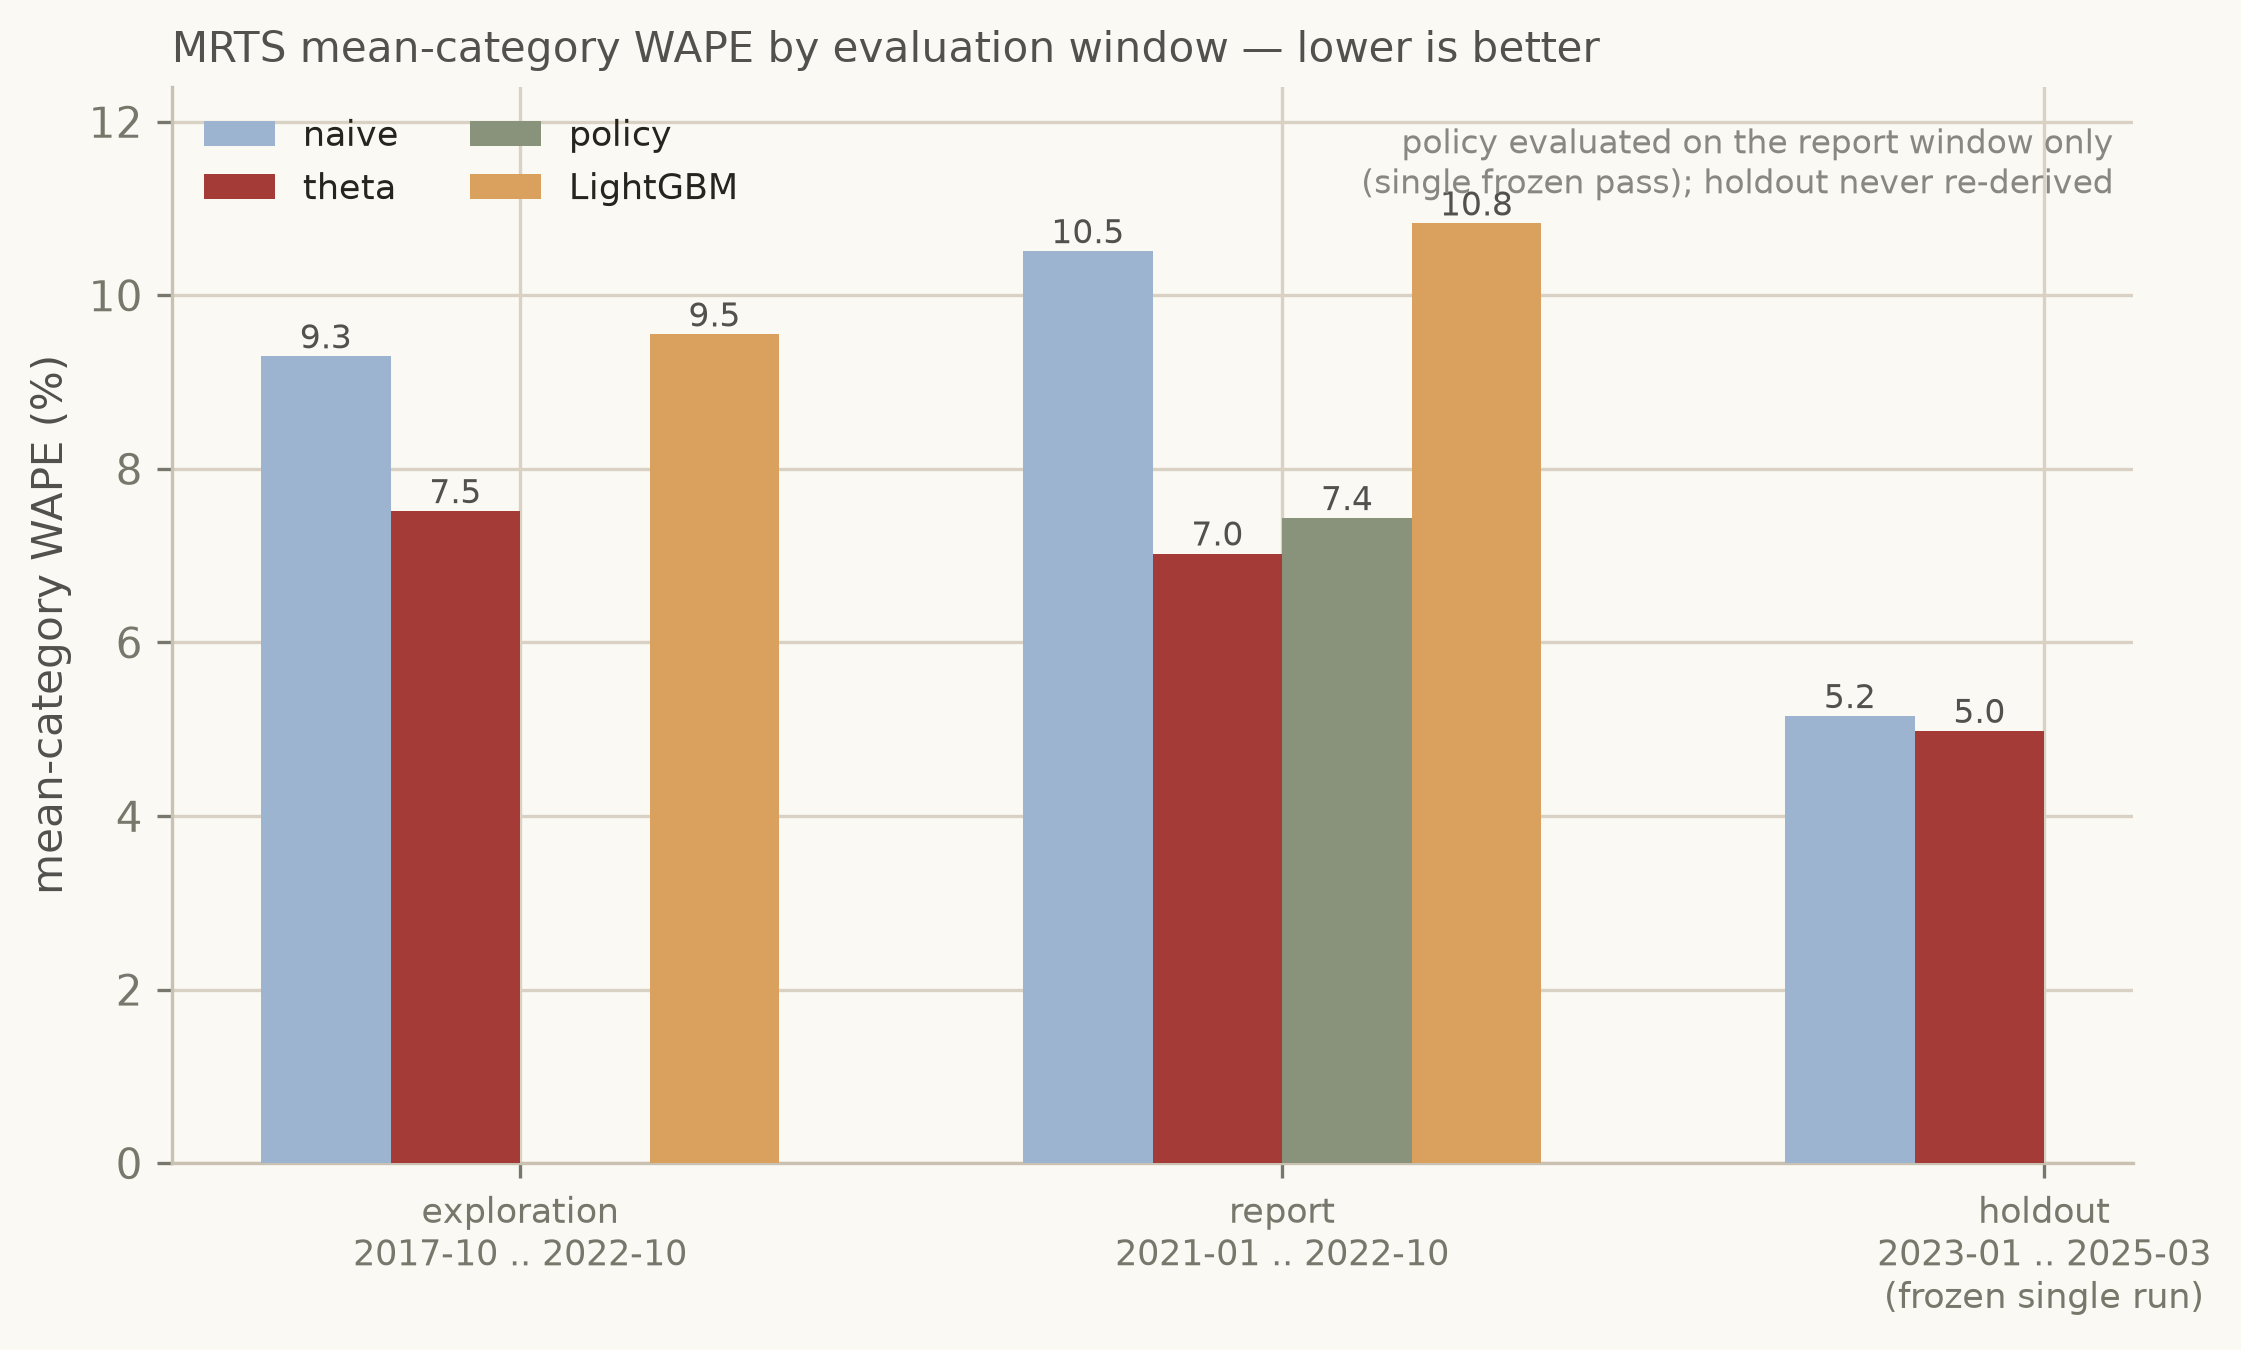
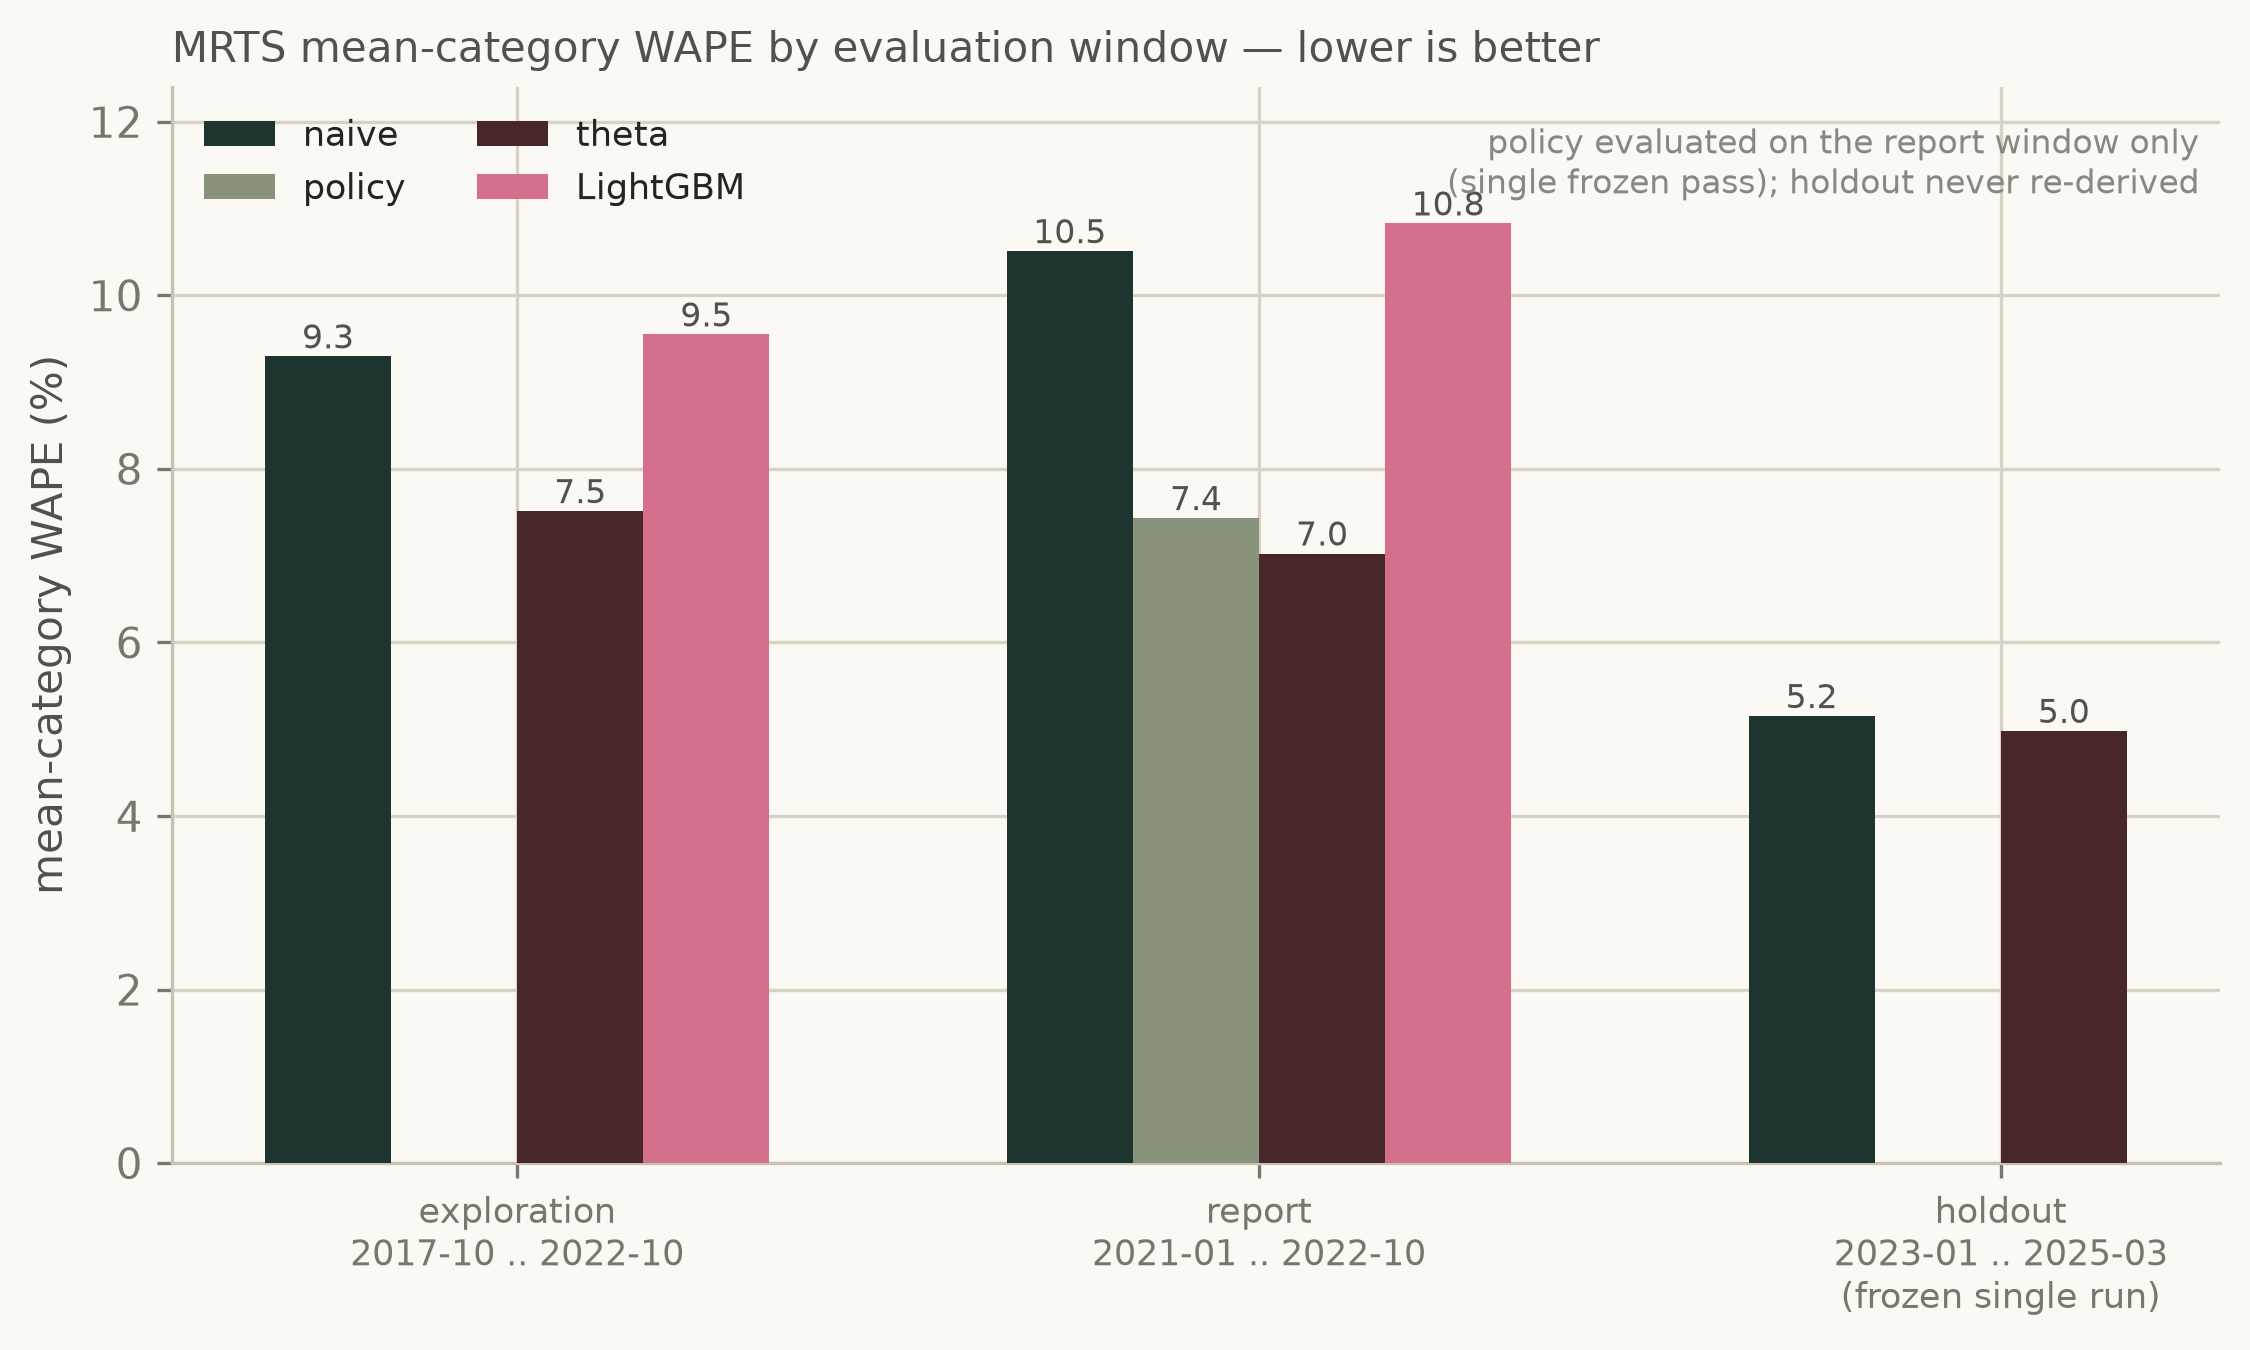
Lab and story figures: sumi-green naive, muted wine theta
Same owner-chosen deep tones as the satellite retheme - naive #1E342E,
theta #482728, with sage policy and sakura rose LightGBM unchanged. Lab
bundle bar order becomes naive | policy | theta | LightGBM so the two
deep tones never sit adjacent.

diff --git a/frontend/src/components/lab/TauSweepSlider.tsx b/frontend/src/components/lab/TauSweepSlider.tsx
@@ -80,8 +80,8 @@ export const TauSweepSlider: FC = () => {
               isAnimationActive={false}
               name="switched policy"
             />
-            <ReferenceLine y={100 * references.naive} stroke="#9db4d0" strokeDasharray="4 3" />
-            <ReferenceLine y={100 * references.theta} stroke={CRIMSON} strokeDasharray="4 3" />
+            <ReferenceLine y={100 * references.naive} stroke="#1E342E" strokeDasharray="4 3" />
+            <ReferenceLine y={100 * references.theta} stroke="#482728" strokeDasharray="4 3" />
             <ReferenceLine y={100 * references.blend} stroke="#b86a62" strokeDasharray="4 3" />
             <ReferenceLine
               y={guardrailY}

diff --git a/frontend/src/content/lab.ts b/frontend/src/content/lab.ts
@@ -194,9 +194,9 @@ export const gateCandidates: GateCandidate[] = [
 ];
 
 export const MODEL_COLORS: Record<string, string> = {
-  seasonal_naive: '#9db4d0',
+  seasonal_naive: '#1E342E',
   global_lightgbm: '#d9a05e',
-  theta_method: '#a43b36',
+  theta_method: '#482728',
   regime_switch_policy: '#89927a',
 };
 

diff --git a/scripts/build_lab_data.py b/scripts/build_lab_data.py
@@ -197,7 +197,7 @@ def window_categories(satellite_results: Path) -> None:
             ),
         },
         "windows": list(window_keys),
-        "models": ["seasonal_naive", "theta_method", "regime_switch_policy", "global_lightgbm"],
+        "models": ["seasonal_naive", "regime_switch_policy", "theta_method", "global_lightgbm"],
         "mean_category_wape": means,
         "rows": rows,
     }
